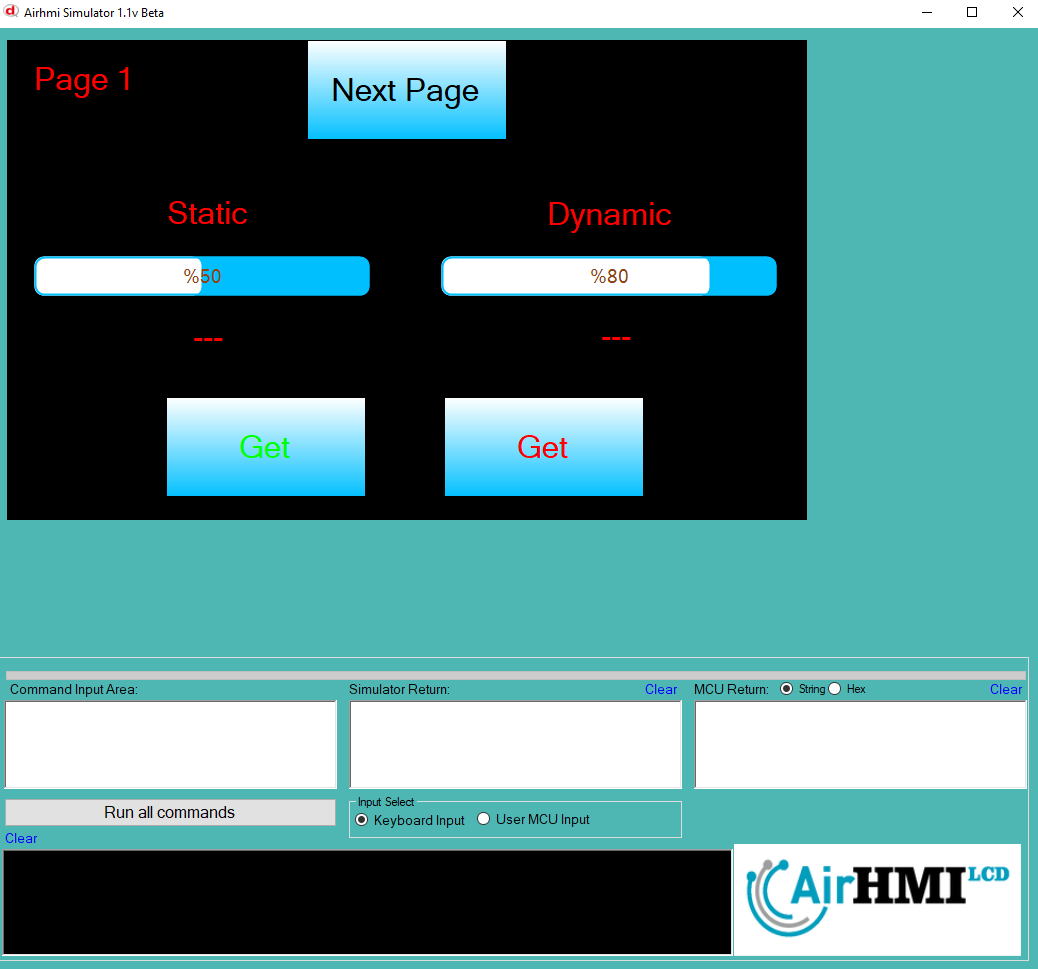
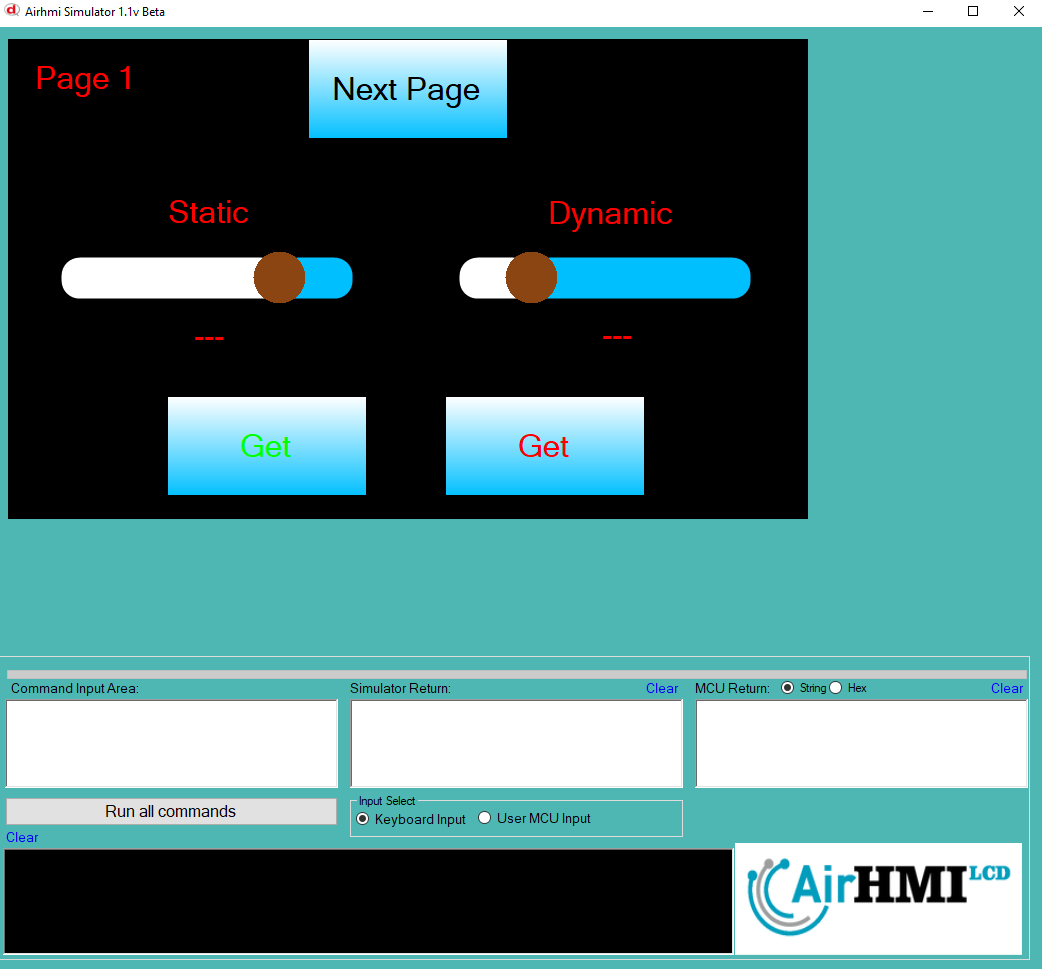
update

diff --git a/Examples/BasicUI/Slider/Slider_Get/Slider_Get_temp/src/EButton3_OnDown.c b/Examples/BasicUI/Slider/Slider_Get/Slider_Get_temp/src/EButton3_OnDown.c
@@ -1,0 +1,7 @@
+#include "stk.h"
+
+char data[20];
+
+SliderGet( "Slider1", "Value" , data);
+LabelSet("ELabelBox5" ,"Text" , data );
+

diff --git a/Examples/BasicUI/Slider/Slider_Get/Slider_Get_temp/src/EButton6_OnDown.c b/Examples/BasicUI/Slider/Slider_Get/Slider_Get_temp/src/EButton6_OnDown.c
@@ -1,0 +1,7 @@
+#include "stk.h"
+
+char data[20];
+
+SliderGet( "Slider1", "Value" , data);
+LabelSet("ELabelBox7" ,"Text" , data );
+

diff --git a/Examples/BasicUI/Slider/Slider_Get/Slider_Get_temp/src/EButton7_OnDown.c b/Examples/BasicUI/Slider/Slider_Get/Slider_Get_temp/src/EButton7_OnDown.c
@@ -1,0 +1,7 @@
+#include "stk.h"
+
+char data[20];
+
+SliderGet( "Slider2", "Value" , data);
+LabelSet("ELabelBox8" ,"Text" , data );
+

diff --git a/Examples/BasicUI/Slider/Slider_Get/Slider_Get_temp/src/EButton4_OnDown.c b/Examples/BasicUI/Slider/Slider_Get/Slider_Get_temp/src/EButton4_OnDown.c
@@ -1,0 +1,7 @@
+#include "stk.h"
+
+char data[20];
+
+SliderGet("Slider2", "Value" , data);
+LabelSet("ELabelBox6" ,"Text" , data );
+

diff --git a/Examples/BasicUI/Slider/Slider_Get/Slider_Get_temp/src/EButton5_OnDown.c b/Examples/BasicUI/Slider/Slider_Get/Slider_Get_temp/src/EButton5_OnDown.c
@@ -1,0 +1,4 @@
+#include "stk.h"
+
+ChangeScreenSet("Screen2");
+

diff --git a/Examples/BasicUI/Slider/Slider_Get/Slider_Get_temp/src/EButton8_OnDown.c b/Examples/BasicUI/Slider/Slider_Get/Slider_Get_temp/src/EButton8_OnDown.c
@@ -1,0 +1,4 @@
+#include "stk.h"
+
+ChangeScreenSet("Screen1");
+
